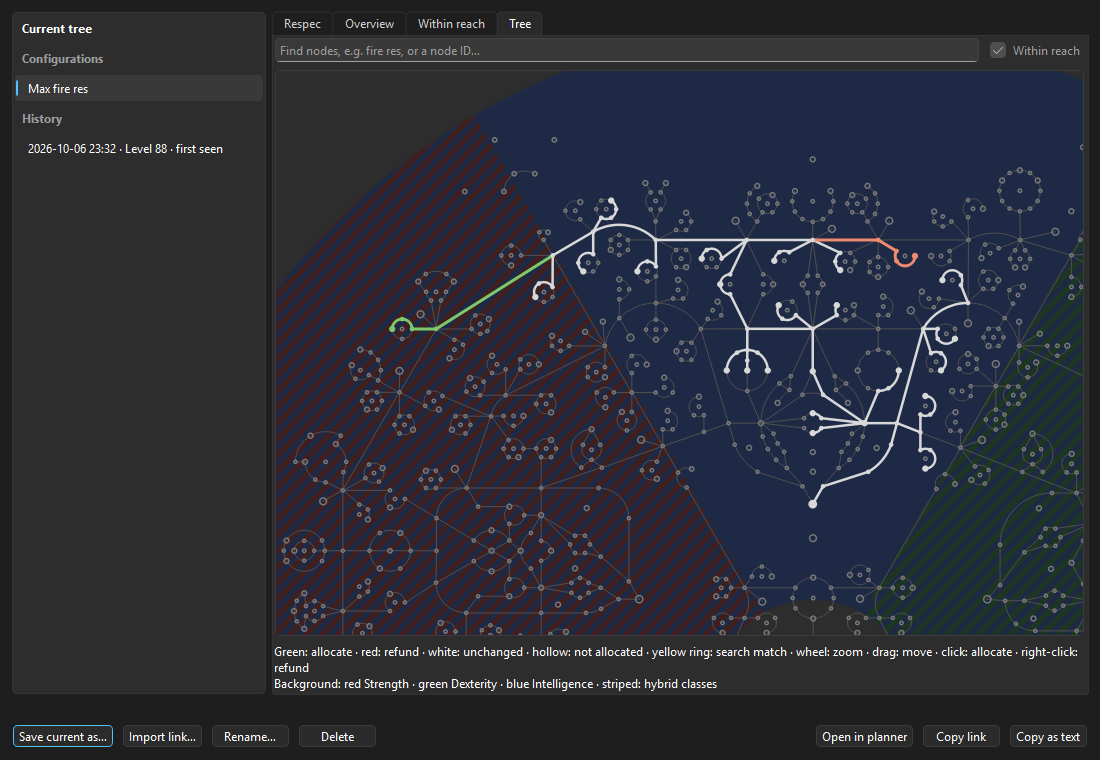
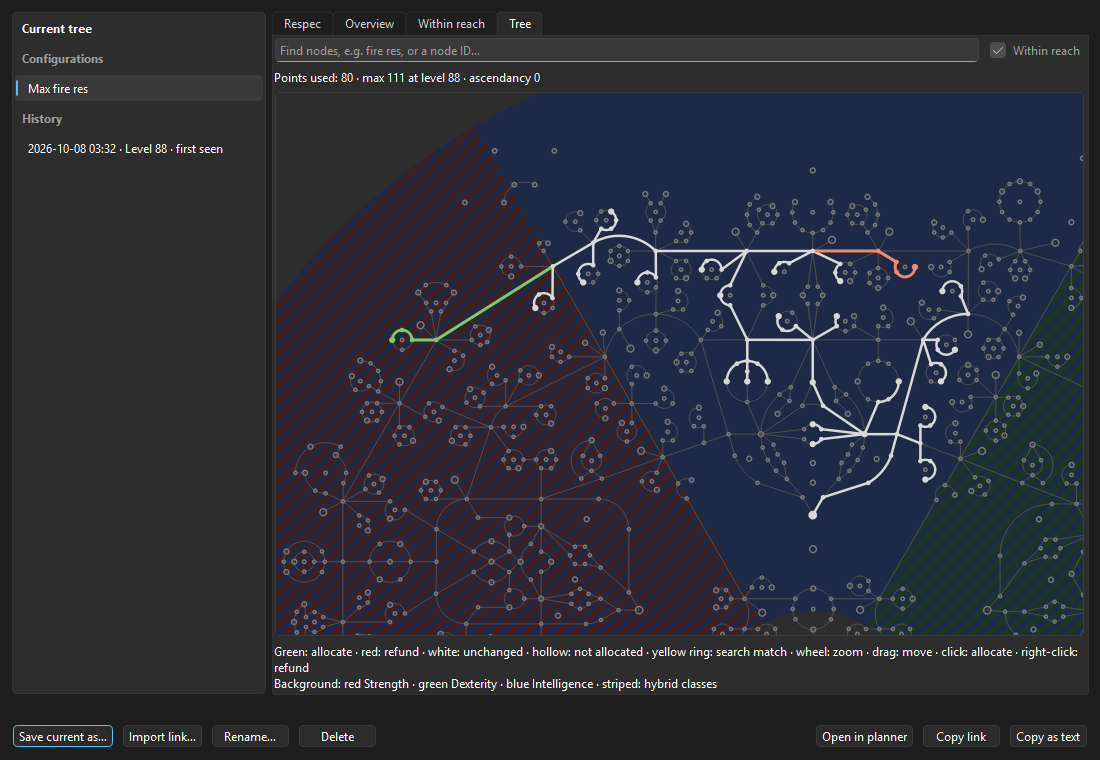
Release v0.25.0 vorbereiten

Changed region(s): [[0.2473, 0.1513, 0.9891, 0.8474], [0.2473, 0.0908, 0.4945, 0.1211], [0.0618, 0.1816, 0.0927, 0.2118]]

diff --git a/poe_view/__init__.py b/poe_view/__init__.py
@@ -6,4 +6,4 @@ Schichten (Abhängigkeiten zeigen nur nach unten, siehe docs/ARCHITEKTUR.md §3)
   api/      reines Python: OAuth, HTTP-Client, Rate-Limiter, Datenmodelle
 """
 
-__version__ = "0.24.0+dev"
+__version__ = "0.25.0"

diff --git a/CHANGELOG.md b/CHANGELOG.md
@@ -6,6 +6,8 @@ nach [SemVer](https://semver.org/lang/de/).
 
 ## [Unveröffentlicht]
 
+## [0.25.0] - 2026-10-08
+
 ### Neu
 
 - **Verbrauchte Punkte im Tree-Reiter** über dem Bild: „Points used:
